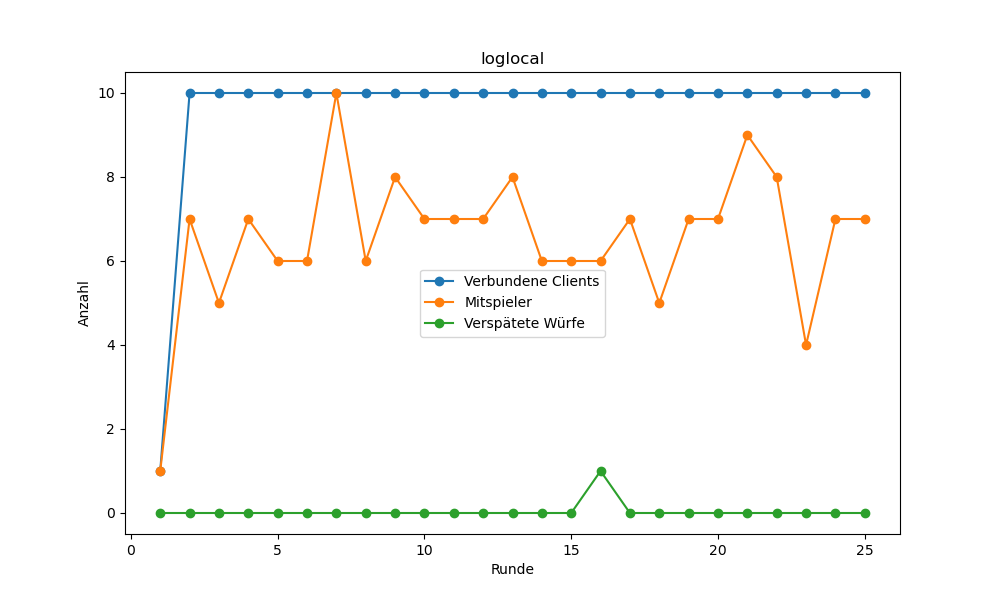
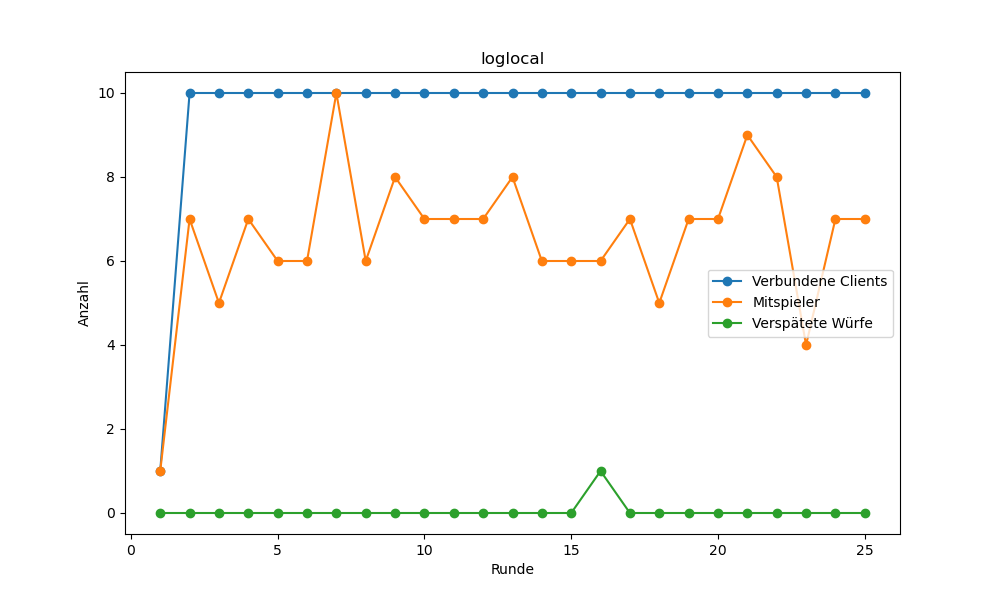
output

Changed region(s): [[0.713, 0.45, 0.899, 0.57], [0.434, 0.45, 0.62, 0.57]]

diff --git a/A1/E2Grafik/grafik.py b/A1/E2Grafik/grafik.py
@@ -27,7 +27,7 @@ def process_json_file(json_file_path):
     plt.title(file_name)
     plt.xlabel('Runde')
     plt.ylabel('Anzahl')
-    plt.legend()
+    plt.legend(loc='center right')
 
     output_file_path = f'{file_name}.png'
     plt.savefig(output_file_path)
@@ -41,6 +41,6 @@ def process_all_json_files(directory):
             process_json_file(json_file_path)
 
 
-json_directory = 'C:\\Users\\rapha\\PycharmProjects\\DS\\A1\\E2c\\logs'
+json_directory = 'C:\\Users\\rapha\\PycharmProjects\\DS\\A1\\E2a\\logs'
 
 process_all_json_files(json_directory)
